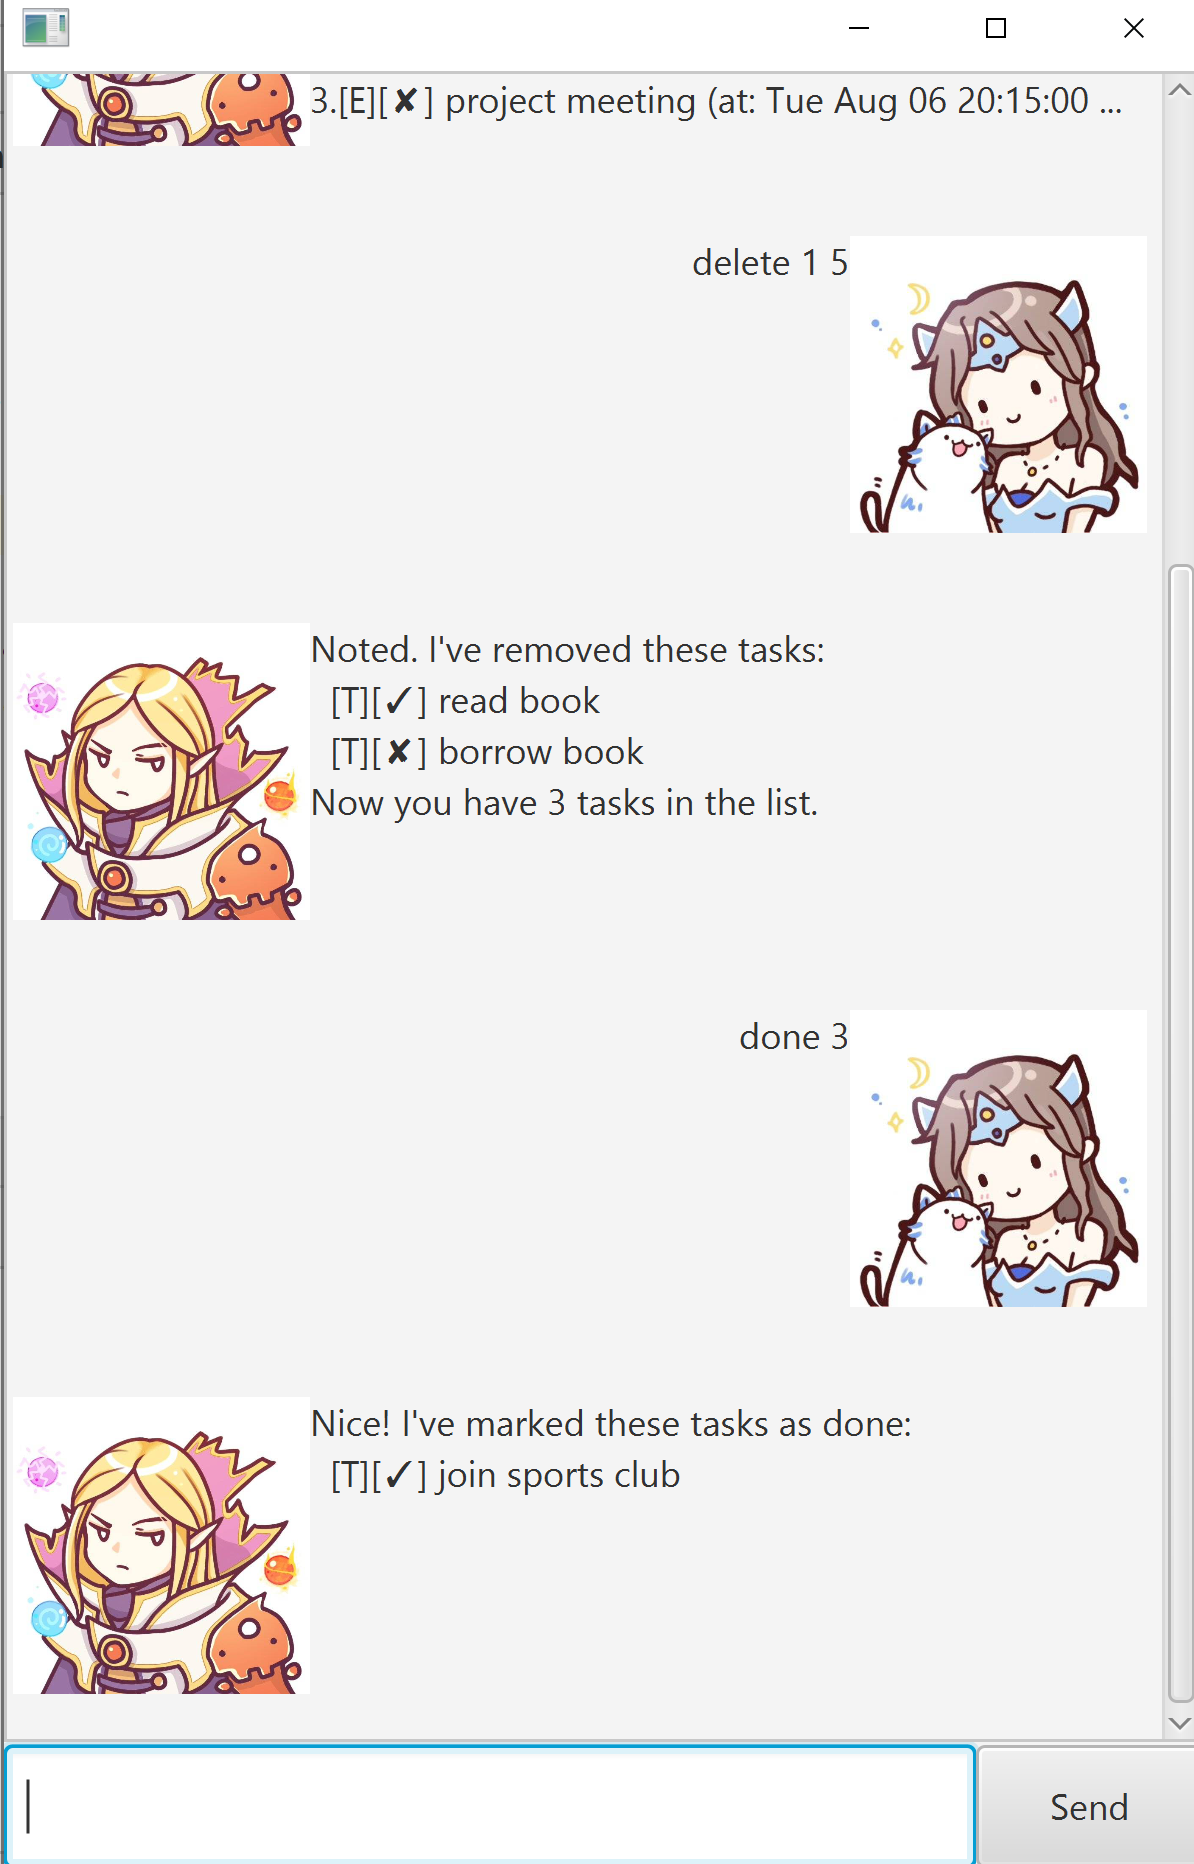
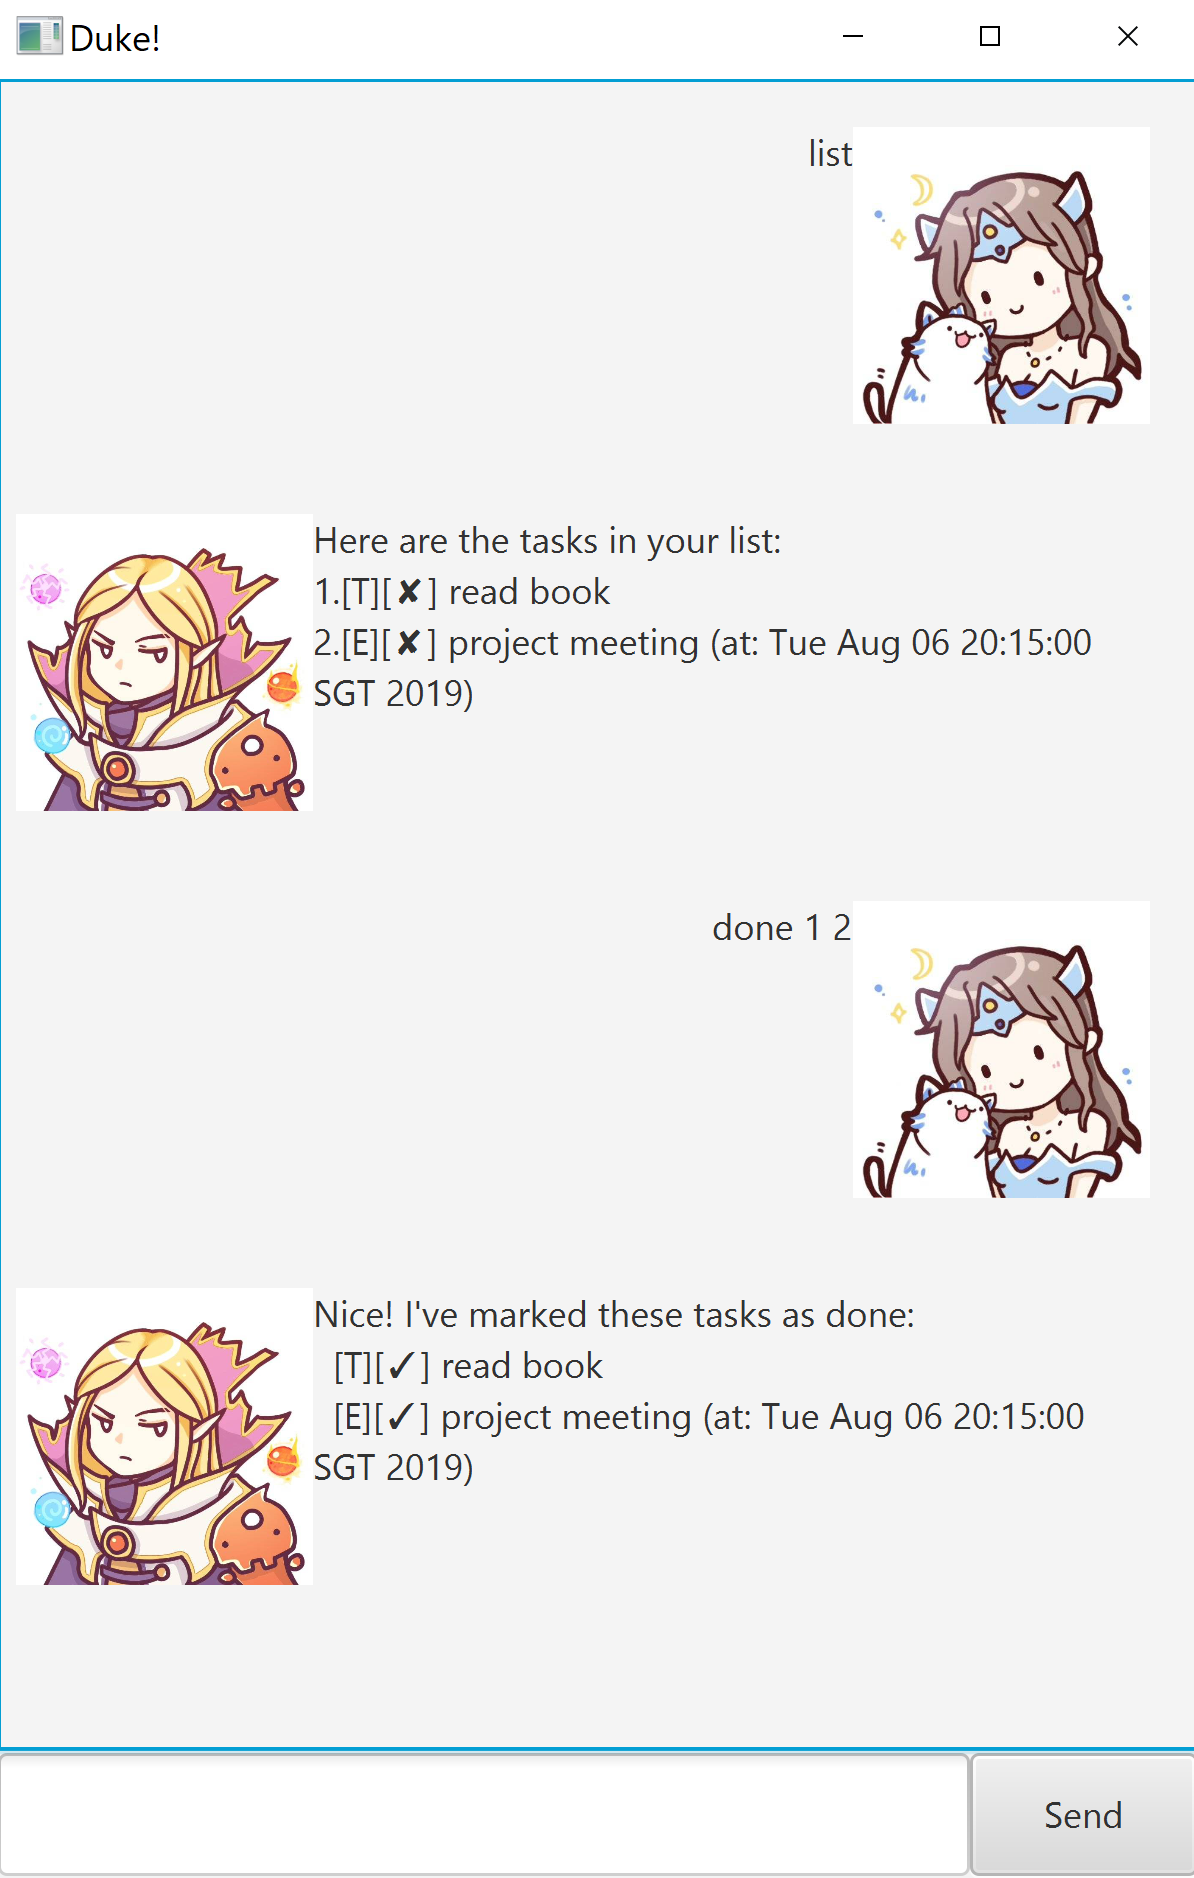
finalize features

diff --git a/src/main/java/Parser.java b/src/main/java/Parser.java
@@ -40,13 +40,13 @@ public class Parser {
                 String type = input.split(" ")[0];
                 switch (type) {
                 case "todo":
-                    throw new DukeException("☹ OOPS!!! The description of a todo cannot be empty.");
+                    throw new DukeException("Sorry Mirana, the description of a todo cannot be empty.");
                 case "event":
-                    throw new DukeException("☹ OOPS!!! The description of an event cannot be empty.");
+                    throw new DukeException("Sorry Mirana, the description of an event cannot be empty.");
                 case "deadline":
-                    throw new DukeException("☹ OOPS!!! The description of a deadline cannot be empty.");
+                    throw new DukeException("Sorry Mirana, the description of a deadline cannot be empty.");
                 default:
-                    throw new DukeException("☹ OOPS!!! I'm sorry, but I don't know what that means :-(");
+                    throw new DukeException("Sorry Mirana, but I don't know what that means :-(");
                 }
             }
             String type = input.substring(0, input.indexOf(" "));
@@ -59,7 +59,7 @@ public class Parser {
             case "deadline":
                 return new Add("deadline", description);
             default:
-                throw new DukeException("☹ OOPS!!! I'm sorry, but I don't know what that means :-(");
+                throw new DukeException("Sorry Mirana, but I don't know what that means :-(");
             }
         }
     }

diff --git a/src/main/java/Duke.java b/src/main/java/Duke.java
@@ -82,7 +82,7 @@ public class Duke extends Application {
                     Find find = (Find) command;
                     find.exec(storage, tasks, ui);
                 } else {
-                    throw new DukeException("☹ OOPS!!! I'm sorry, but I don't know what that means :-(");
+                    throw new DukeException("Sorry Mirana, but I don't know what that means :-(");
                 }
             } catch (DukeException ex) {
                 ui.showDukeException(ex);
@@ -117,7 +117,7 @@ public class Duke extends Application {
                 Find find = (Find) command;
                 return find.exec(storage, tasks, ui);
             } else {
-                throw new DukeException("☹ OOPS!!! I'm sorry, but I don't know what that means :-(");
+                throw new DukeException("Sorry Mirana, but I don't know what that means :-(");
             }
         } catch (DukeException ex) {
             return ui.showDukeException(ex);
@@ -201,7 +201,7 @@ public class Duke extends Application {
         AnchorPane.setBottomAnchor(sendButton, 1.0);
         AnchorPane.setRightAnchor(sendButton, 1.0);
 
-        AnchorPane.setLeftAnchor(userInput , 1.0);
+        AnchorPane.setLeftAnchor(userInput, 1.0);
         AnchorPane.setBottomAnchor(userInput, 1.0);
 
         //Step 3. Add functionality to handle user input.

diff --git a/src/test/java/UiTest.java b/src/test/java/UiTest.java
@@ -1,15 +1,12 @@
-
 import org.junit.jupiter.api.Test;
-
 import java.io.ByteArrayOutputStream;
 import java.io.PrintStream;
-
 import static org.junit.jupiter.api.Assertions.assertEquals;
 
 public class UiTest {
 
     @Test
-    public void printTest() throws Exception {
+    public void printTest() {
         ByteArrayOutputStream outContent = new ByteArrayOutputStream();
         System.setOut(new PrintStream(outContent));
 
@@ -21,5 +18,14 @@ public class UiTest {
 
         // Do the actual assertion.
         assertEquals(expectedOutput, outContent.toString());
+    }
+
+    @Test
+    public void showDukeExceptionTest() {
+        Ui ui = new Ui();
+        DukeException ex = new DukeException("dummy ex");
+        String expected = "dummy ex";
+        String returned = ui.showDukeException(ex);
+        assertEquals(expected, returned);
     }
 }

diff --git a/src/main/java/Todo.java b/src/main/java/Todo.java
@@ -25,15 +25,7 @@ public class Todo extends Task {
      * @return string representation of a task
      */
     public String repr() {
-        assert getStatusIcon().equals("\u2713") || getStatusIcon().equals("\u2718");
         return "[T][" + super.getStatusIcon() + "] " + description;
     }
 
-    /**
-     * Expresses that a todo task is done.
-     * @return string representation of a done task
-     */
-    public String done() {
-        return "  [T][✓] " + description;
-    }
 }

diff --git a/src/main/java/DialogBox.java b/src/main/java/DialogBox.java
@@ -51,6 +51,12 @@ public class DialogBox extends HBox {
         return new DialogBox(text, img);
     }
 
+    /**
+     * Creates a dialog box of Duke bot.
+     * @param text response from Duke
+     * @param img avatar of Duke
+     * @return a dialog box of Duke
+     */
     public static DialogBox getDukeDialog(String text, Image img) {
         var db = new DialogBox(text, img);
         db.flip();

diff --git a/src/main/java/TaskList.java b/src/main/java/TaskList.java
@@ -90,7 +90,7 @@ public class TaskList {
             newTask = new Deadline(description);
             break;
         default:
-            throw new DukeException("☹ OOPS!!! I'm sorry, but I don't know what that means :-(");
+            throw new DukeException("Sorry Mirana, but I don't know what that means :-(");
         }
         try {
             newTask.repr();

diff --git a/src/main/java/Deadline.java b/src/main/java/Deadline.java
@@ -28,7 +28,6 @@ public class Deadline extends Task {
      * @throws ParseException if description of deadline cannot be parsed
      */
     public String repr() throws ParseException {
-        assert getStatusIcon().equals("\u2713") || getStatusIcon().equals("\u2718");
         return "[D][" + getStatusIcon() + "] " + super.formatDescription();
     }
 }

diff --git a/src/main/java/Event.java b/src/main/java/Event.java
@@ -28,7 +28,6 @@ public class Event extends Task {
      * @throws ParseException if description of event cannot be parsed
      */
     public String repr() throws ParseException {
-        assert getStatusIcon().equals("\u2713") || getStatusIcon().equals("\u2718");
         return "[E][" + getStatusIcon() + "] " + super.formatDescription();
     }
 }

diff --git a/src/main/java/Main.java b/src/main/java/Main.java
@@ -20,6 +20,7 @@ public class Main extends Application {
             AnchorPane ap = fxmlLoader.load();
             Scene scene = new Scene(ap);
             stage.setScene(scene);
+            stage.setTitle("Duke!");
             fxmlLoader.<MainWindow>getController().setDuke(duke);
             stage.show();
         } catch (IOException e) {

diff --git a/src/main/java/Task.java b/src/main/java/Task.java
@@ -55,7 +55,6 @@ public class Task {
      * @throws ParseException if description cannot be parsed
      */
     public String repr() throws ParseException {
-        assert getStatusIcon().equals("\u2713") || getStatusIcon().equals("\u2718");
         return "[" + getStatusIcon() + "] " + description;
     }
 }

diff --git a/src/main/java/Command.java b/src/main/java/Command.java
@@ -2,5 +2,5 @@
  * Represents an abstract command.
  */
 public abstract class Command {
-    abstract public String exec(Storage storage, TaskList tasks, Ui ui);
+    public abstract String exec(Storage storage, TaskList tasks, Ui ui);
 }
